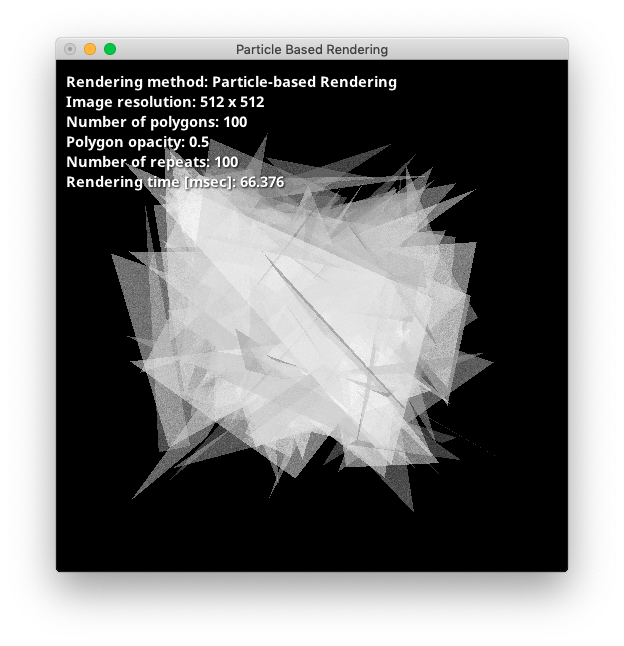
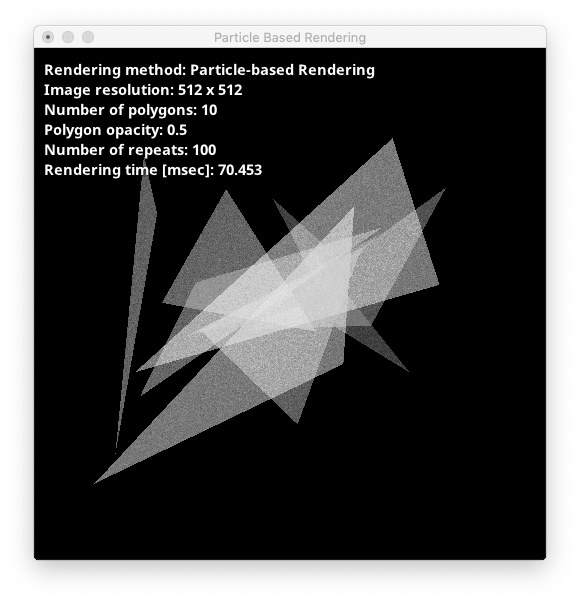
Updated

diff --git a/Input.h b/Input.h
@@ -30,7 +30,7 @@ public:
         height( 512 ),
         nrepeats( 100 ),
         npeels( 1 ),
-        npolygons( 100 ),
+        npolygons( 10 ),
         opacity( 0.5 ),
         color( kvs::RGBColor::White() ),
         background( kvs::RGBColor::Black() ),

diff --git a/README.md b/README.md
@@ -23,6 +23,6 @@ Options:
 
 ## Visualization Results
 
-|Particle-based Rendering|Depth Peeling Rendering<br>(Number of peels is 1)|Truth(Number of peels is 100)|
+|Particle-based Rendering|Depth Peeling Rendering<br>(Number of peels is 1)|Depth Peeling Rendering<br>(Number of peels is 10)|
 |:-:|:-:|:-:|
-|![](figures/PBR.png)|![](figures/DPR.png)|![](figures/Truth.png)|
+|![](figures/PBR.png)|![](figures/DPR-1.png)|![](figures/DPR-10.png)|
